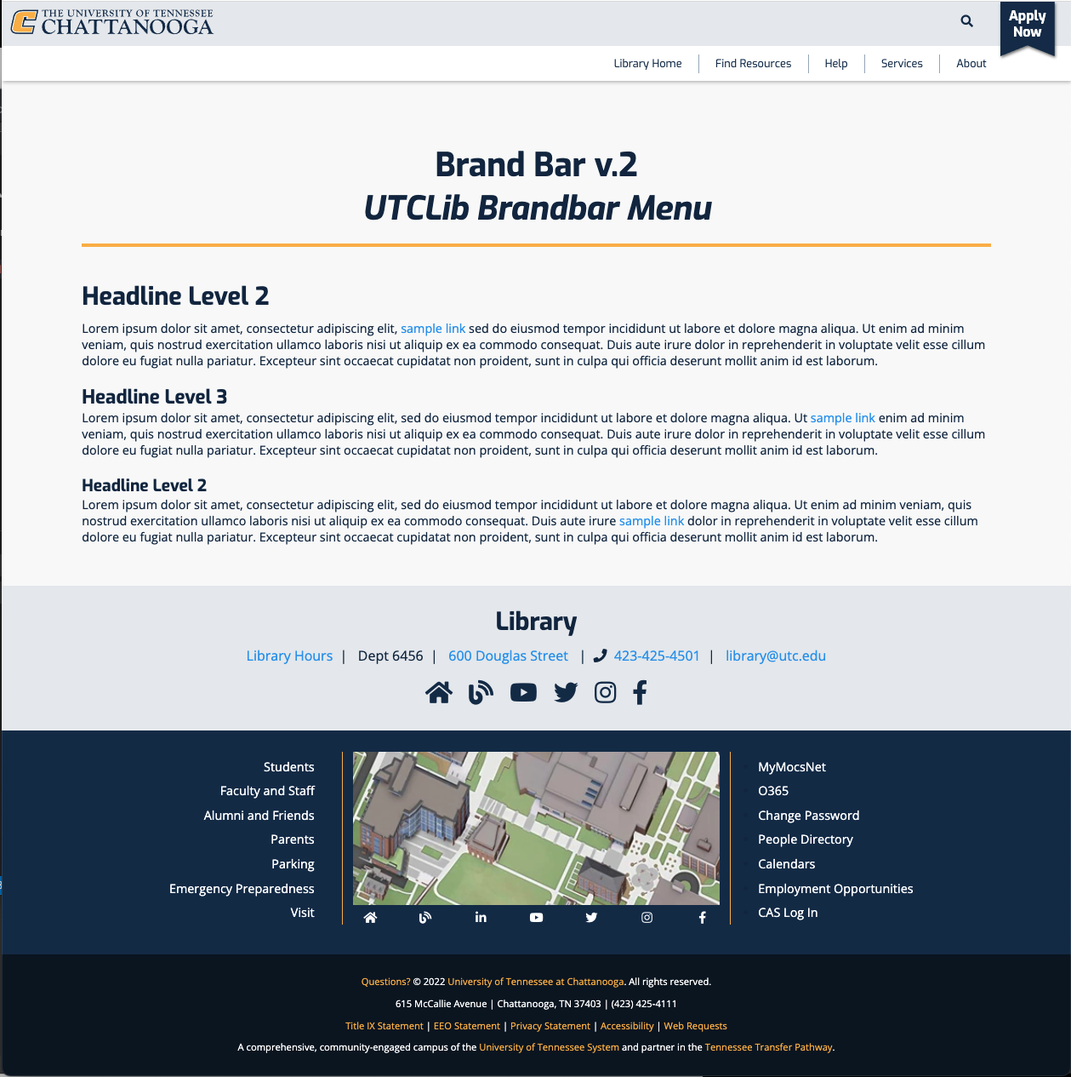
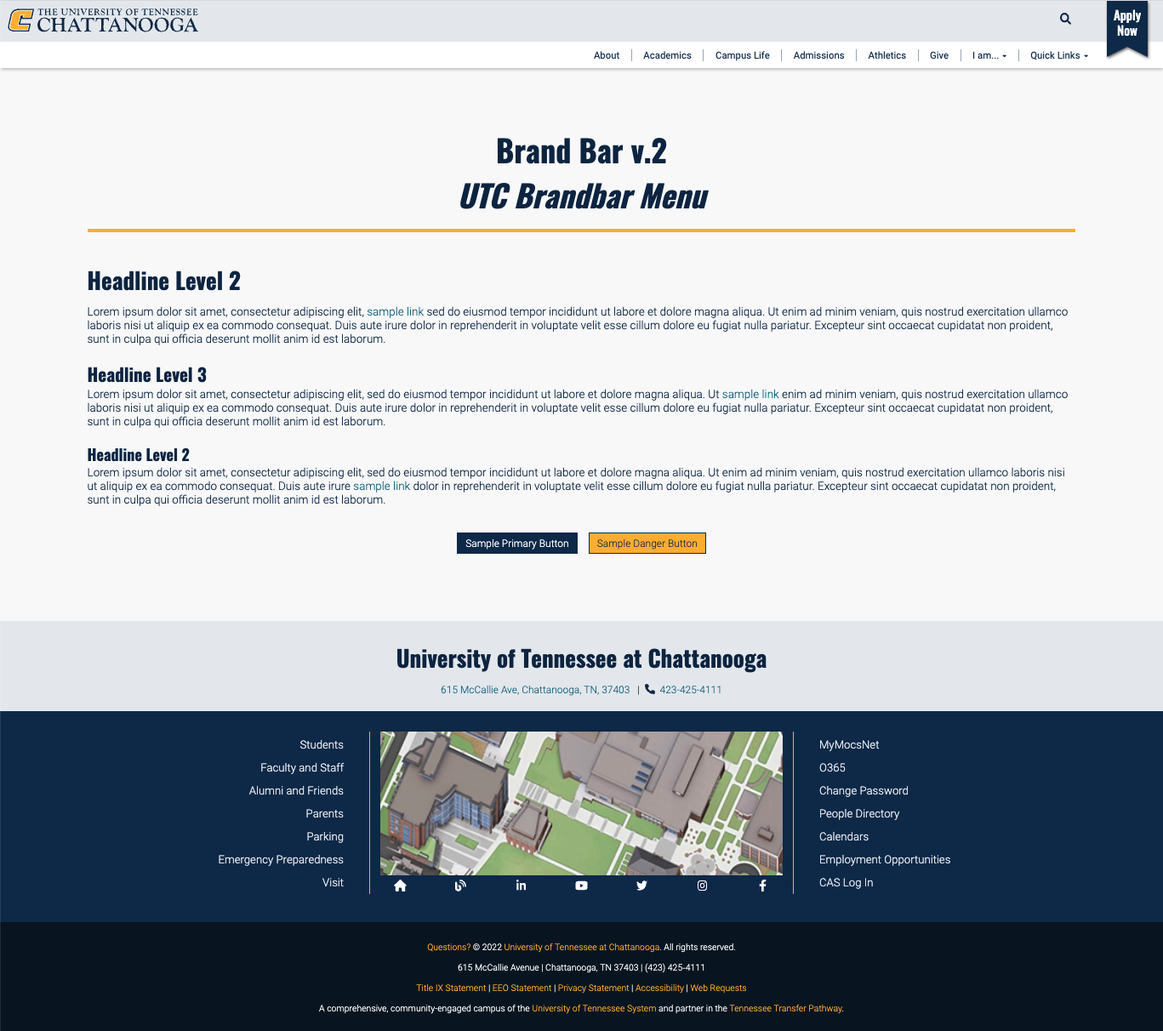
20220720-1423: Update fonts and responsiveness.

diff --git a/brandbar-v2.html b/brandbar-v2.html
@@ -13,9 +13,14 @@
 <title>Brand Bar v.2 | University of Tennessee at Chattanooga</title>
 <link rel="preconnect" href="https://fonts.googleapis.com">
 <link rel="preconnect" href="https://fonts.gstatic.com" crossorigin>
-<link href="https://fonts.googleapis.com/css2?family=Exo:ital,wght@0,400;0,700;1,400;1,500;1,700&family=Open+Sans:ital,wght@0,300;0,400;0,600;0,700;0,800;1,300;1,400;1,500;1,600;1,700;1,800&display=swap" rel="stylesheet">
+<link href="https://fonts.googleapis.com/css2?family=Oswald:wght@200;300;400;500;600;700&family=Roboto:ital,wght@0,100;0,300;0,400;0,500;0,700;0,900;1,100;1,300;1,400;1,500;1,700;1,900&display=swap" rel="stylesheet">
+<!--Main css styles-->
 <style>
-	:root{--blue:#112e51;--ltblue:#e7eaee;--dkblue:#081524;--gold:#fdb736;--dkgold:#725218;--ltgray:#a0aec0;--links:#2196f3;--bodycopy:#0f2949;--pagebg:#f9f9f9}*{margin:0;padding:0;box-sizing:border-box}html{box-sizing:border-box}*,::before,::after{box-sizing:inherit}body{font-size:18px;font-family:'Open Sans',sans-serif;color:var(--bodycopy);background:var(--pagebg);margin:0;overflow-x:hidden;overflow-y:scroll}html,body{height:100%}#container{display:flex;flex-direction:column;height:100vh}main{flex:1 0 auto}header,footer{flex-shrink:0}.sr-only{position:absolute;width:1px;height:1px;padding:0;margin:-1px;overflow:hidden;clip:rect(0,0,0,0);white-space:nowrap;border-width:0}.visually-hidden{display:none}a,button,.button,.title>a,.title-area,.header,.header>.wrap>*{outline:0}a{color:var(--links);text-decoration:none}:focus{outline:unset}a:hover,a:focus{color:var(--gold);text-decoration:underline}p{margin-bottom:12px;color:var(--bodycopy)}hr{background:transparent;border-bottom:1px solid var(--ltgray)}b,strong{font-weight:700}em,i{font-style:italic}::selection{background:var(--ltblue)}h1,h2,h3,h4,h5,h6{font-weight:700;margin-top:24px;font-family:'Exo',sans-serif}h1{font-size:3rem;text-align:center;width:100%;padding-bottom:18px;border-bottom:6px solid var(--gold);margin-top:2rem;margin-left:auto;margin-right:auto}h2{font-size:2.25rem;text-align:left;margin:48px auto 12px}#department-footer h2{text-align:center}h3{font-size:1.75rem}h4{font-size:1.5rem}h5{font-size:1.25rem}h6{font-size:1rem;text-align:center;margin:36px auto}embed,iframe,object,video{max-width:none}img{height:auto}.title-area svg{max-width:300px;max-height:48px}figure{margin:0}figure a{border:0}hr{margin:60px 0}.button-wrapper{display:flex;justify-content:space-evenly;padding-top:36px;max-width:900px;margin:0 auto}.btn,.btn-primary,button,.button{background:var(--blue);color:#fff;cursor:pointer;text-align:center;font-size:1rem;padding:6px 12px;text-decoration:none;white-space:normal;width:auto;display:inline-block;margin-top:6px;margin-bottom:6px;transition:all 250ms ease-in-out}.btn-danger,.button.secondary{background:var(--gold);color:var(--blue)}.btn:focus,.btn:hover,button:focus,button:hover,.button:focus,.button:hover,.btn-danger,.button.secondary:focus,.button.secondary:hover{color:var(--gold)}.header{background:#fff;top:0;width:100%;z-index:9999;box-shadow:1px 3px 5px -1px #bbb}.header>.wrap{display:flex;flex-direction:column;margin-left:0;margin-right:0}.header-first-row{background:#e7eaee;display:flex;align-content:center;padding:0 12px}.title-area{float:left;background:transparent;max-width:30%;padding:6px 0;margin-right:auto}.header .custom-logo-link{border:0}.header .custom-logo-link svg.custom-logo{display:block;max-height:80px;width:auto}.nav-primary{padding-right:5.5rem}.nav-secondary{height:48px}.nav-secondary ul{display:flex;justify-content:space-between;min-width:150px;min-height:3.5rem}.nav-secondary li{list-style:none}.nav-secondary a{text-decoration:none}.search-icon-menu-item{display:flex;align-items:center}.search-icon-menu-item a{background:transparent;margin-top:0;margin-bottom:0;color:var(--blue);transform:scale(1);transition:all .5s ease-in-out}.search-icon-menu-item a:hover{color:var(--gold);transform:scale(2)}@keyframes dropIn{from{opacity:0;visibility:hidden;transform:translateY(-100px)}to{opacity:1;visibility:visible;transform:translateY(0)}}.menu-item.ribbon-container{z-index:1}.ribbon-wrapper{width:60px;position:relative;animation-delay:1s;animation:dropIn 1s linear forwards}.ribbon{position:absolute;right:12px;top:0;filter:drop-shadow(2px 3px 2px rgba(0,0,0,0.5))}.ribbon>.ribbon-content{text-align:center;background:var(--blue);width:5rem;height:5rem;transition:all .5s ease-in-out}.ribbon>.ribbon-content{clip-path:polygon(0 0,100% 0,100% 100%,50% 100%,0 100%);transition:all .5s ease-in-out}.ribbon.down>.ribbon-content{clip-path:polygon(0 0,100% 0,100% calc(100% - 16px),50% 100%,0 calc(100% - 16px))}.ribbon.up>.ribbon-content{clip-path:polygon(0 0,100% 0,100% 100%,50% calc(100% - 16px),0 100%)}li.ribbon-container{padding:0}.apply-now-ribbon{padding:0;font-size:1.25rem;color:#fff;font-family:"Exo",sans-serif;font-weight:600;position:relative;display:inline-block;margin:9px auto 36px;line-height:1.5rem;transition:all .5s ease-in-out}.menu-item.ribbon-container:hover .apply-now-ribbon{color:var(--gold)}.nav-primary .menu{display:flex;justify-content:flex-end;padding:12px}.nav-primary .menu-item{padding:0 24px;list-style:none;border-right:1px solid var(--ltgray);height:auto}.nav-primary .menu-item:last-child{border:0}.nav-primary .menu-item a{color:var(--blue);text-decoration:none;transition:all .4s ease-in-out;font-size:1rem;line-height:.5rem;font-weight:400;font-family:"Exo",sans-serif}.nav-primary .menu-item a:after{content:"";background:rgba(253,183,54,0.7);transform:scaleX(0);transition:transform 250ms ease-in-out;box-shadow:0 0 1px 1px rgb(253 183 54 / 70%);margin-top:.25rem;display:block;height:0}.nav-primary .menu-item:hover a:after{transform:scaleX(1)}.container{background:var(--pagebg);position:relative;z-index:99}.inner,.wrap{margin:0 auto}.inner{max-width:85%;margin:60px auto;clear:both;position:relative;z-index:100}#department-footer{background:var(--ltblue);text-align:center;padding-top:18px;padding-bottom:24px}#department-footer h2{margin-top:12px}address{display:inline-block;font-style:normal;font-size:1.25rem}#social-footer ul{display:flex;width:fit-content;margin:0 auto}#social-footer li{list-style:none;padding:12px;margin-top:12px}#social-footer a{color:var(--blue)}#social-footer a:hover{color:var(--gold)}.before-footer-menu-map{background:var(--blue);bottom:0;padding-bottom:44px;text-align:left;position:relative;height:fit-content;min-height:82px}.before-footer-menu-map .wrap{padding-top:32px}.before-footer-menu-map .wrap:before{display:none}.before-footer-menu-map .widget{padding:0 16px;margin-bottom:0}.before-footer-menu-map li.menu-item{padding:6px 0;cursor:pointer}.before-footer-menu-map a{color:#fff;font-size:1.125rem;cursor:pointer;transition:all .4s ease-in-out}.before-footer-menu-map li.menu-item:hover a{text-decoration:none;color:var(--gold)}.before-footer-menu-map p{font-size:1.125rem}.before-footer-menu-map .icon{font-size:1.5rem;position:relative}#custom_html-5 .textwidget,#custom_html-4 .textwidget{display:grid;grid-template-columns:1fr 37% 1fr}#custom_html-5 .widget-title,#custom_html-4 .widget-title{display:none}#left-footer-menu,#global-footer-map,#right-footer-menu{z-index:100000000}#left-footer-menu{float:left;border-right:1px solid var(--gold);padding-right:40px;padding-top:3px;text-align:right}#right-footer-menu{float:right;border-left:1px solid var(--gold);padding-left:40px;padding-top:3px}.footer-menu{width:100%}#custom_html-4{width:100%;position:absolute;top:32px}.inner-map-wrap{max-height:225px;padding:0 16px;overflow:hidden}#global-footer-map a{text-align:center;margin:0 auto}#global-footer-map a:hover{color:var(--gold)}#global-footer-map img{width:100%}.utc-footer-socials{display:grid;grid-template-columns:repeat(7,minmax(0,1fr));text-align:center;margin-top:6px}.footer-copyright{background-color:var(--dkblue);padding:24px;text-align:center;line-height:2rem;color:#fff;font-size:14px}.footer-copyright a{text-decoration:none;color:var(--gold)}.footer-copyright a:hover{color:var(--links)}.mobile-hide{display:inline}@media only screen and (max-width:900px){.logins{width:100%;min-width:250px}.button-wrapper{display:grid}}@media only screen and (max-width:600px){.inner{margin:24px auto 60px}.mobile-hide{display:none}.mobile-block{display:block}h1{font-size:2.25rem}h2{font-size:1.5rem}h3{font-size:1.25rem}h4,h5,h6{font-size:1rem}.title-area svg{max-width:250px;max-height:48px}#department-footer{padding-left:24px;padding-right:24px}.footer-copyright{text-align:center;padding:24px;line-height:2rem}}
+	*{padding:0;margin:0;box-sizing:border-box;}:root{--blue:#112e51;--ltblue:#e7eaee;--dkblue:#081524;--gold:#fdb736;--dkgold:#725218;--ltgray:#a0aec0;--links:#166484;--bodycopy:#0f2949;--pagebg:#f9f9f9}*{margin:0;padding:0;box-sizing:border-box}html{box-sizing:border-box}*,::before,::after{box-sizing:inherit}body{font-size:18px;font-family:'Roboto',sans-serif;font-weight:300;color:var(--bodycopy);background:var(--pagebg);margin:0;overflow-x:hidden;overflow-y:scroll}html,body{height:100%}#container{display:flex;flex-direction:column;height:100vh}main{flex:1 0 auto}header,footer{flex-shrink:0}.sr-only{position:absolute;width:1px;height:1px;padding:0;margin:-1px;overflow:hidden;clip:rect(0,0,0,0);white-space:nowrap;border-width:0}.visually-hidden{display:none}a,button,.button,.title>a,.title-area,.header,.header>.wrap>*{outline:0}a{color:var(--links);text-decoration:none;transition:all .4s ease-in-out}:focus{outline:unset}a:hover,a:focus{color:var(--blue);font-weight:bold;}p{margin-bottom:12px;color:var(--bodycopy)}hr{background:transparent;border-bottom:1px solid var(--ltgray)}b,strong{font-weight:700}em,i{font-style:italic}::selection{background:var(--ltblue)}h1,h2,h3,h4,h5,h6{font-weight:700;margin-top:24px;font-family:'Oswald',sans-serif}h1{font-size:3rem;text-align:center;width:100%;padding-bottom:18px;border-bottom:6px solid var(--gold);margin-top:2rem;margin-left:auto;margin-right:auto}h2{font-size:2.25rem;text-align:left;margin:48px auto 12px}#department-footer h2{text-align:center}h3{font-size:1.75rem}h4{font-size:1.5rem}h5{font-size:1.25rem}h6{font-size:1rem;text-align:center;margin:36px auto}embed,iframe,object,video{max-width:none}img{height:auto}.title-area svg{max-width:300px;max-height:48px}figure{margin:0}figure a{border:0}hr{margin:60px 0}.button-wrapper{display:flex;justify-content:space-evenly;padding-top:36px;max-width:900px;margin:0 auto}.btn,.btn-primary,button,.button{background:var(--blue);border:1px solid var(--blue);color:#fff;cursor:pointer;text-align:center;font-size:1rem;padding:6px 12px;text-decoration:none;white-space:normal;width:auto;display:inline-block;margin-top:6px;margin-bottom:6px;transition:all 250ms ease-in-out}.btn-danger,.button.secondary{background:var(--gold);color:var(--blue)}.btn:focus,.btn:hover,button:focus,button:hover,.button:focus,.button:hover,.btn-danger:hover,.button.secondary:focus,.button.secondary:hover{background:#fff;font-weight:300;}.header{background:#fff;top:0;width:100%;z-index:9999;box-shadow:1px 3px 5px -1px #bbb}.header>.wrap{display:flex;flex-direction:column;margin-left:0;margin-right:0}.header-first-row{background:#e7eaee;display:flex;align-content:center;padding:0 12px}.title-area{float:left;background:transparent;max-width:30%;padding:6px 0;margin-right:auto}.header .custom-logo-link{border:0}.header .custom-logo-link svg.custom-logo{display:block;max-height:80px;width:auto}.nav-primary{padding-right:5.5rem}.nav-secondary{height:48px}.nav-secondary ul{display:flex;justify-content:space-between;min-width:150px;min-height:3.5rem}.nav-secondary li{list-style:none}.nav-secondary a{text-decoration:none}.search-icon-menu-item{display:flex;align-items:center}.search-icon-menu-item a{background:transparent;margin-top:0;margin-bottom:0;color:var(--blue);transform:scale(1);transition:all .5s ease-in-out}.search-icon-menu-item a:hover{color:var(--gold);transform:scale(2)}@keyframes dropIn{from{opacity:0;visibility:hidden;transform:translateY(-100px)}to{opacity:1;visibility:visible;transform:translateY(0)}}.menu-item.ribbon-container{z-index:1}.ribbon-wrapper{width:60px;position:relative;animation-delay:1s;animation:dropIn 1s linear forwards}.ribbon{position:absolute;right:12px;top:0;filter:drop-shadow(2px 3px 2px rgba(0,0,0,0.5))}.ribbon>.ribbon-content{text-align:center;background:var(--blue);width:4rem;height:5.5rem;transition:all .5s ease-in-out}.ribbon>.ribbon-content{clip-path:polygon(0 0,100% 0,100% 100%,50% 100%,0 100%);transition:all .5s ease-in-out}.ribbon.down>.ribbon-content{clip-path:polygon(0 0,100% 0,100% calc(100% - 16px),50% 100%,0 calc(100% - 16px))}.ribbon.up>.ribbon-content{clip-path:polygon(0 0,100% 0,100% 100%,50% calc(100% - 16px),0 100%)}li.ribbon-container{padding:0}.apply-now-ribbon{padding:0;font-size:1.25rem;color:#fff;font-family:"Oswald",sans-serif;font-weight:500;position:relative;display:inline-block;margin:9px auto 36px;line-height:1.5rem;transition:all .5s ease-in-out}.menu-item.ribbon-container:hover .apply-now-ribbon{color:var(--gold)}.container{background:var(--pagebg);position:relative;z-index:99}.inner,.wrap{margin:0 auto}.inner{max-width:85%;margin:60px auto;clear:both;position:relative;z-index:100}#department-footer{background:var(--ltblue);text-align:center;padding-top:18px;padding-bottom:24px}#department-footer h2{margin-top:12px}address{display:inline-block;font-style:normal;font-size:1rem}address a:hover{font-weight: 300;}#social-footer ul{display:flex;width:fit-content;margin:0 auto}#social-footer li{list-style:none;padding:12px;margin-top:12px}#social-footer a{color:var(--blue)}#social-footer a:hover{color:var(--gold)}.before-footer-menu-map{background:var(--blue);bottom:0;padding-bottom:44px;text-align:left;position:relative;height:fit-content;min-height:82px}.before-footer-menu-map .wrap{padding-top:32px}.before-footer-menu-map .wrap:before{display:none}.before-footer-menu-map .widget{padding:0 16px;margin-bottom:0}.before-footer-menu-map li.menu-item{padding:6px 0;cursor:pointer}.before-footer-menu-map a{color:#fff;font-size:1.125rem;cursor:pointer;transition:all .4s ease-in-out}.before-footer-menu-map li.menu-item:hover a{text-decoration:none;color:var(--gold)}.before-footer-menu-map p{font-size:1.125rem}.before-footer-menu-map .icon{font-size:1.5rem;position:relative}#custom_html-5 .textwidget,#custom_html-4 .textwidget{display:grid;grid-template-columns:1fr 37% 1fr}#custom_html-5 .widget-title,#custom_html-4 .widget-title{display:none}#left-footer-menu,#global-footer-map,#right-footer-menu{z-index:100000000}#left-footer-menu{float:left;border-right:1px solid var(--gold);padding-right:40px;padding-top:3px;text-align:right}#right-footer-menu{float:right;border-left:1px solid var(--gold);padding-left:40px;padding-top:3px}.footer-menu{width:100%}#custom_html-4{width:100%;position:absolute;top:32px}.inner-map-wrap{max-height:225px;padding:0 16px;overflow:hidden}#global-footer-map a{text-align:center;margin:0 auto}#global-footer-map a:hover{color:var(--gold)}#global-footer-map img{width:100%}.utc-footer-socials{display:grid;grid-template-columns:repeat(7,minmax(0,1fr));text-align:center;margin-top:6px}.footer-copyright{background-color:var(--dkblue);padding:24px;text-align:center;line-height:2rem;color:#fff;font-size:14px}.footer-copyright a{text-decoration:none;color:var(--gold)}.footer-copyright a:hover{color:var(--links)}.mobile-hide{display:inline}@media only screen and (max-width:900px){.logins{width:100%;min-width:250px}.button-wrapper{display:grid}}@media only screen and (max-width:600px){.inner{margin:24px auto 60px}.mobile-hide{display:none}.mobile-block{display:block}h1{font-size:2.25rem}h2{font-size:1.5rem}h3{font-size:1.25rem}h4,h5,h6{font-size:1rem}.title-area svg{max-width:250px;max-height:48px}#department-footer{padding-left:24px;padding-right:24px}.footer-copyright{text-align:center;padding:24px;line-height:2rem}}
+</style>
+<!--Responsive menu(s) css styles-->
+<style>
+	.nav-primary .menu{display:flex;justify-content:flex-end;padding:0 12px}ul.menu{margin:0;padding:0;clear:both;width:100%;line-height:1}ul.menu li{float:none;list-style-type:none;position:relative;text-align:left;padding:0;padding-top:12px;padding-bottom:6px}.fa-caret-down{height:.6rem;padding-left:6px;vertical-align:0}ul.menu > li a{display:block;color:var(--blue);text-decoration:none;transition:all .4s ease-in-out;font-size:.95rem;font-weight:400;font-family:"Roboto",sans-serif;border-right:1px solid var(--ltgray);cursor:pointer;line-height:1.2rem;padding-left:18px;padding-right:18px}ul.menu > li:last-child a{border:none}ul.menu > li > a:after{content:"";background:rgba(253,183,54,0.7);transform:scaleX(0);transition:transform 250ms ease-in-out;box-shadow: 0 0 1px 1px rgb(253 183 54 / 70%);margin-top:.25rem;display:block;height:0}ul.menu > li:hover > a:after{transform:scaleX(1)}ul.menu .sub-menu{position:absolute;z-index:999;margin-left:-1px;display:none;height:0;border-width:0;padding-left:0;opacity:0;left:-9999px;box-shadow: 3px 3px 5px 1px rgb(0 0 0 / 15%), -3px 3px 5px 1px rgb(0 0 0 / 15%);animation:growDown 300ms ease-in-out forwards;transform-origin:top center;margin-top:6px}ul.menu .menu-item:hover > .sub-menu{right:0;left:auto;display:block;height:auto;width:10rem;opacity:1;border-top:1px solid var(--ltblue)}@keyframes growDown{0%{transform:scaleY(0)}80%{transform:scaleY(1.1)}100%{transform:scaleY(1)}}ul.menu .sub-menu .menu-item{display:block;border-bottom:1px solid var(--ltblue);border-right:none;padding-top:0;padding-bottom:0;transition:all .5s ease-in-out;background:#fff;position:relative;text-align:left}ul.menu .sub-menu a{position:relative;padding:.75rem;font-size:.875rem;line-height:1.25rem;margin:0;border:0}ul.menu .sub-menu a:hover{background-color:var(--ltblue)}.sf-with-ul{padding:0 1rem;margin-top:1rem;margin-bottom:1rem;display:block;color:var(--blue);text-decoration:none;transition:all .4s ease-in-out;font-size:.95rem;font-weight:300;font-family:"Roboto",sans-serif;cursor:pointer;line-height:1.2rem}.sub-menu-toggle{display:none}#left-footer-menu ul.menu > li,#right-footer-menu ul.menu > li{margin:0;border:0}#left-footer-menu ul.menu > li a,#right-footer-menu ul.menu > li a{font-weight:300;font-size:1.1rem;line-height:1.5rem;color:var(--ltblue);text-decoration:none;margin:0;padding:0;border:0;transition:all .4s ease-in-out;text-align:left}#left-footer-menu ul.menu > li a{text-align:right}#left-footer-menu ul.menu > li a:hover,#right-footer-menu ul.menu > li a:hover{color:var(--gold)}#left-footer-menu ul.menu > li a:after,#right-footer-menu ul.menu > li a:after{display:none}.hamburger{display:none;cursor:pointer}@media(max-width:991px){#container{overflow-x:hidden}.header-first-row{z-index:10}.hamburger{display:inline-block;height:72px;padding-top:18px}.hamburger .svg-inline--fa{height:1.8rem;transition:all .4s ease-in-out}.hamburger.active .svg-inline--fa{transform:scale(1.5)}.nav-primary .menu{padding:0}.nav-primary ul.menu{display:flex;position:absolute;right:-100%;top:66px;gap:0;flex-direction:column;width:50%;transition:.3s;z-index:1;box-shadow:3px 3px 3px 3px rgba(0,0,0,.2)}ul.level-1 li{width:100%}ul.menu li{float:none;list-style-type:none;position:relative;text-align:left;padding:0}ul.menu li.menu-item-has-children{padding-top:0;padding-left:18px}ul.menu li.menu-item-has-children.active{padding-bottom:12px}ul.menu > li.menu-item-has-children > a{padding-top:18px;padding-left:0px;height:52px}.nav-secondary li.menu-item:not(.menu-item.ribbon-container){margin:16px 0}.nav-secondary li{width:60px;display:inline-block}.ribbon{right:0}ul.menu.active{right:0}ul.level-1 li{background:#fff;border:0;transition:all .4s ease-in-out;border-bottom:1px solid var(--ltblue)}ul.level-1 li:hover{background:var(--ltblue)}ul.level-1 li a{border:0;-webkit-tap-highlight-color:transparent;height:52px;padding-top:18px}ul.menu > li > a:after{display:none}ul.menu .sub-menu{position:relative;margin:0}#custom_html-4 .svg-inline--fa{height:1rem}ul.menu .menu-item:hover > .sub-menu{display:block;width:99%}ul.level-1 li > .sub-menu.hide{display:none!important}ul.level-1 li > .sub-menu.show{display:block!important}.fa-caret-down{transform:rotate(-90deg);transition:all .4s ease-in-out;position:absolute;right:12px;top:24px;height:.75rem}.has-submenu[aria-expanded="true"] .fa-caret-down{transform:rotate(0deg);right:15px;top:21px}}@media(max-width:640px){#custom_html-5 .textwidget{grid-template-columns:1fr 0 1fr}.footer-menu{width:100%}#custom_html-4{width:100%;position:relative;padding-bottom:36px}#custom_html-4 .textwidget{grid-template-columns:0 1fr 0;padding-left:60px;padding-right:60px}ul.menu .menu-item.open > .sub-menu{width:100%}}@media(max-width:460px){.title-area{max-width:48px;overflow:hidden}.title-area svg{max-width:320px}ul.menu{width:100%}}
 </style>
 <script src="https://kit.fontawesome.com/6cef20ef42.js" crossorigin="anonymous"></script>
 </head>
@@ -298,11 +303,12 @@
         </div>
         <nav class="nav-secondary" aria-label="Secondary" itemscope="" itemtype="https://schema.org/SiteNavigationElement">
           <div class="wrap">
-            <ul id="menu" class="">
-              <li class="menu-item search-icon-menu-item"><a href="https://www.utc.edu/search" aria-controls="header-search-wrap" aria-expanded="false" role="button" class=""><span class="sr-only">Show Search</span> <i class="fa fa-search"></i></a></li>
+            <ul>
+			  <li class="hamburger"><i class="fas fa-bars"></i></li>
+              <li class="menu-item search-icon-menu-item"><a href="https://www.utc.edu/search" aria-controls="header-search-wrap" aria-expanded="false" role="button" ><span class="sr-only">Show Search</span> <i class="fa fa-search"></i></a></li>
               <li class="menu-item ribbon-container">
                 <div class="ribbon-wrapper"> <a href="https://webapp.utc.edu/apply/" title="Apply Now">
-                  <div id="menuribbon" class="ribbon up" style="">
+                  <div id="menuribbon" class="ribbon up" >
                     <div class="ribbon-content">
                       <p id="apply-now-ribbon" class="apply-now-ribbon">Apply<br>
                         Now</p>
@@ -314,24 +320,51 @@
           </div>
         </nav>
       </div>
-      <div class="">
+	  <style>
+		  
+	  </style>
+      <div >
         <nav class="nav-primary" role="navigation" aria-labelledby="utc-brandbarmenu" id="utc-brandbarmenu">
-          <h2 class="menu-title sr-only">UTCLib Brandbar Menu</h2>
-          <ul class="menu">
-            <li class="menu-item"><a href="/library" title="UTC Library home page" class=""><span>Library Home</span></a></li>
-            <li class="menu-item"><a href="/library/find-resources" title="Find resources at the UTC Library" class=""><span>Find Resources</span></a></li>
-            <li class="menu-item"><a href="/library/help" title="Get help from the UTC Library" class="" ><span>Help</span></a></li>
-            <li class="menu-item"><a href="/library/services" title="Services available at the UTC Library" class=""><span>Services</span></a></li>
-            <li class="menu-item"><a href="/library/about" title="Get help from the UTC Library" class="" ><span>About</span></a></li>
+          <h2 class="menu-title sr-only">UTC Brandbar Menu</h2>
+          <ul class="menu level-1">
+            <li class="menu-item"><a href="https://www.utc.edu/about" title="About UTC" ><span>About</span></a></li>
+            <li class="menu-item"><a href="https://www.utc.edu/about/academics-and-majors" title="Academics" ><span>Academics</span></a></li>
+            <li class="menu-item"><a href="https://www.utc.edu/about/campus-life" title="Campus Life"  ><span>Campus Life</span></a></li>
+            <li class="menu-item"><a href="https://www.utc.edu/about/admissions" title="Admissions" ><span>Admissions</span></a></li>
+            <li class="menu-item"><a href="https://gomocs.com/" title="Athletics"  ><span>Athletics</span></a></li>
+			<li class="menu-item"><a href="https://securelb.imodules.com/s/1341/utc/form/19/form.aspx?sid=1341&gid=3&pgid=4310&cid=6419" title="Give"  ><span>Give</span></a></li>
+			<li class="menu-item menu-item-has-children"><a href="#" class='has-submenu iam-btn' aria-expanded="false" title="I am...">I am...<i class="fa-solid fa-caret-down"></i></a>
+				<ul class="sub-menu level-2 iam-menu hide" >
+					<li class="menu-item menu-item-level-2"><a href="https://www.utc.edu/about/student-resources" itemprop="url"><span itemprop="name">…a student.</span></a></li>
+					<li class="menu-item menu-item-level-2"><a href="https://www.utc.edu/about/faculty-and-staff-resources" itemprop="url"><span itemprop="name">…faculty or staff.</span></a></li>
+					<li class="menu-item menu-item-level-2"><a href="https://www.utc.edu/about/alumni-and-friends" itemprop="url"><span itemprop="name">…alumni.</span></a></li>
+					<li class="menu-item menu-item-level-2"><a href="https://www.utc.edu/admissions/parents" itemprop="url"><span itemprop="name">…a parent.</span></a></li>
+					<li class="menu-item menu-item-level-2"><a href="https://www.utc.edu/veterans/" itemprop="url"><span itemprop="name">…a veteran.</span></a></li>
+				</ul>
+			</li>
+			<li class="menu-item menu-item-has-children"><a href="#" class='has-submenu ql-btn' aria-expanded="false" title="Quick Links" >Quick Links<i class="fa-solid fa-caret-down"></i></a>
+				<ul class="sub-menu level-2 ql-menu hide" >
+					<li class="menu-item menu-item-level-2"><a href="https://webauth.utc.edu/cas/login?service=https%3A%2F%2Futchattanooga.instructure.com%2Flogin%2Fcas" itemprop="url"><span itemprop="name">UTC Learn (Canvas)</span></a></li>
+					<li class="menu-item menu-item-level-2"><a href="https://mail.google.com/a/mocs.utc.edu" itemprop="url"><span itemprop="name">Mocs Mail+</span></a></li>
+					<li class="menu-item menu-item-level-2"><a href="https://mocsyncorgs.utc.edu/" itemprop="url"><span itemprop="name">MocsSync</span></a></li>
+					<li class="menu-item menu-item-level-2"><a href="https://portal.microsoftonline.com/" itemprop="url"><span itemprop="name">O365</span></a></li>
+					<li class="menu-item menu-item-level-2"><a href="https://sis-reg.utc.edu/StudentRegistrationSsb/ssb/term/termSelection?mode=search" itemprop="url"><span itemprop="name">Class Schedule</span></a></li>
+					<li class="menu-item menu-item-level-2"><a href="https://events.utc.edu/MasterCalendar/MasterCalendar.aspx" itemprop="url"><span itemprop="name">Calendar</span></a></li>
+					<li class="menu-item menu-item-level-2"><a href="https://people.utc.edu/" itemprop="url"><span itemprop="name">People Finder</span></a></li>
+					<li class="menu-item menu-item-level-2"><a href="https://www.utc.edu/auxiliary-services/parking/utcmap-large.php" itemprop="url"><span itemprop="name">Campus Map</span></a></li>
+					<li class="menu-item menu-item-level-2"><a href="https://ds.tennessee.edu/passwords/login.asp?redirect=%2Fpasswords%2Fpassword%2Easp" itemprop="url"><span itemprop="name">Change Password</span></a></li>
+				</ul>
+			</li>
           </ul>
         </nav>
       </div>
     </div>
+	
   </header>
   <main class="main-content inner">
     <div class="wrap">
       <h1 itemprop="headline">Brand Bar v.2<br />
-        <em>UTCLib Brandbar Menu</em></h1>
+        <em>UTC Brandbar Menu</em></h1>
       <div class="content-sidebar-wrap">
         <div class="content" >
           <article aria-label="Sample Brand Bar" itemscope="" itemtype="https://schema.org/CreativeWork">
@@ -341,7 +374,8 @@
             <div> Lorem ipsum dolor sit amet, consectetur adipiscing elit, sed do eiusmod tempor incididunt ut labore et dolore magna aliqua. Ut <a href="#" title="sample link">sample link</a> enim ad minim veniam, quis nostrud exercitation ullamco laboris nisi ut aliquip ex ea commodo consequat. Duis aute irure dolor in reprehenderit in voluptate velit esse cillum dolore eu fugiat nulla pariatur. Excepteur sint occaecat cupidatat non proident, sunt in culpa qui officia deserunt mollit anim id est laborum. </div>
             <h4>Headline Level 2</h4>
             <div> Lorem ipsum dolor sit amet, consectetur adipiscing elit, sed do eiusmod tempor incididunt ut labore et dolore magna aliqua. Ut enim ad minim veniam, quis nostrud exercitation ullamco laboris nisi ut aliquip ex ea commodo consequat. Duis aute irure <a href="#" title="sample link">sample link</a> dolor in reprehenderit in voluptate velit esse cillum dolore eu fugiat nulla pariatur. Excepteur sint occaecat cupidatat non proident, sunt in culpa qui officia deserunt mollit anim id est laborum. </div>
-          </article>
+            <div style="margin:36px;text-align:center"><a class="btn btn-primary">Sample Primary Button</a>&nbsp;&nbsp;&nbsp;&nbsp;<a class="btn btn-danger">Sample Danger Button</a></div>
+		  </article>
         </div>
       </div>
     </div>
@@ -349,12 +383,13 @@
   <footer class="footer" itemscope="" itemtype="https://schema.org/WPFooter">
     <div class="wrap">
       <div id="department-footer">
-        <h2 style="margin-bottom:12px;">Library</h2>
+        <h2 style="margin-bottom:12px;">University of Tennessee at Chattanooga</h2>
         <div>
           <address>
-          <span class="mobile-block"> <a href="/library/about/hours">Library Hours</a> <span class="mobile-hide">&nbsp;&nbsp;|&nbsp;&nbsp;</span> Dept.&nbsp;6456 <span class="mobile-hide">&nbsp;&nbsp;|&nbsp;&nbsp;</span> <a href="https://www.google.com/maps/place/UTC+Library/@35.0474378,-85.300106,15z/data=!4m5!3m4!1s0x0:0xa893b362b58555b9!8m2!3d35.0474378!4d-85.300106">600 Douglas Street</a> <span class="mobile-hide">&nbsp;&nbsp;|&nbsp;&nbsp;</span> </span> <span class="mobile-block"><i class="fas fa-phone"></i>&nbsp;&nbsp;<a href="tel:423-425-4501">423-425-4501</a> <span class="mobile-hide">&nbsp;&nbsp;|&nbsp;&nbsp;</span> <a href="mailto:library@utc.edu">library@utc.edu</a> </span>
+          <span class="mobile-block"> <a href="https://explore.utc.edu/">615 McCallie Ave, Chattanooga, TN, 37403</a> <span class="mobile-hide">&nbsp;&nbsp;|&nbsp;&nbsp;</span><i class="fas fa-phone"></i>&nbsp;&nbsp;<a href="tel:423-425-4111">423-425-4111</a>
           </address>
-          <div id="social-footer">
+          <!--APPLY THIS FOR YOUR DEPARTMENT
+		  <div id="social-footer">
             <ul>
               <li> <a href="https://www.utc.edu/library" target="_self" aria-label="departmental homepage" title="departmental homepage"> <span class="fa fa-home fa-2x"></span> </a> </li>
               <li> <a href="https://blog.utc.edu/library/" target="_self" aria-label="Read our news blog" title="Read our news blog"> <span class="fa fa-blog fa-2x"></span> </a> </li>
@@ -363,7 +398,7 @@
               <li> <a href="https://www.instagram.com/utclibrary" target="_self" aria-label="Find us on Instagram" title="Find us on Instagram"> <span class="fa fa-instagram fa-2x"></span> </a> </li>
               <li> <a href="https://www.facebook.com/UTCLibrary" target="_self" aria-label="Find us on Facebook" title="Find us on Facebook"> <span class="fa fa-facebook fa-2x"></span> </a> </li>
             </ul>
-          </div>
+          </div>-->
         </div>
       </div>
       <div class="before-footer-menu-map">
@@ -372,7 +407,7 @@
           <section id="custom_html-5" class="widget_text widget widget_custom_html">
             <div class="widget_text widget-wrap">
               <h3 class="widgettitle widget-title">Footer Menus</h3>
-              <div class="textwidget custom-html-widget">
+              <div id="footer-menus" class="textwidget custom-html-widget ">
                 <div id="left-footer-menu" class="footer-menu">
                   <nav role="navigation" aria-labelledby="" class="left-footer-menu">
                     <ul class="menu">
@@ -432,6 +467,7 @@
     </div>
   </footer>
 </div>
+<script src="https://ajax.googleapis.com/ajax/libs/jquery/3.4.0/jquery.min.js"></script> 
 <script>
 	//Apply now ribbon
   const ribbon = document.getElementById("menuribbon");
@@ -445,6 +481,43 @@
       this.classList.remove("down");
       this.classList.add("up");
   };
-	</script>
+</script>
+<script>
+	//Mobile menu conversion
+	const hamburger = document.querySelector(".hamburger");
+	const navMenu = document.querySelector("ul.menu");
+
+	hamburger.addEventListener("click", () => {
+		hamburger.classList.toggle("active");
+		navMenu.classList.toggle("active");
+	});
+	document.querySelectorAll("li.menu-item a:not(.has-submenu)").forEach(n => n.addEventListener("click", () => {
+		hamburger.classList.remove("active");
+		navMenu.classList.remove("active");
+	}));
+</script>
+<script>
+	//Apply functionality to mobile submenus
+      $('.iam-btn').click(function(){
+		if ($(".ql-menu").hasClass("show")) {
+			$(".ql-menu").removeClass("show").addClass("hide");
+			$(".ql-btn").parent().removeClass("active");
+			$(".ql-btn").removeClass("active").attr('aria-expanded','false');
+		}
+        $('.iam-menu').toggleClass("show hide");
+		$(this).parent().toggleClass("active");
+		$(this).attr('aria-expanded', function(_, attr) { return !(attr == 'true') })
+      });
+      $('.ql-btn').click(function(){
+        $('.ql-menu').toggleClass("show hide");
+		$(this).parent().toggleClass("active");
+		$(this).attr('aria-expanded', function(_, attr) { return !(attr == 'true') });
+		if ($(".iam-menu").hasClass("show")) {
+			$(".iam-menu").removeClass("show").addClass("hide");
+			$(".iam-btn").parent().removeClass("active");
+			$(".iam-btn").removeClass("active").attr('aria-expanded','false');
+		}
+      });
+</script>
 </body>
 </html>

diff --git a/brandbar-v1.html b/brandbar-v1.html
@@ -13,9 +13,9 @@
 <title>Brand Bar v.1 | University of Tennessee at Chattanooga</title>
 <link rel="preconnect" href="https://fonts.googleapis.com">
 <link rel="preconnect" href="https://fonts.gstatic.com" crossorigin>
-<link href="https://fonts.googleapis.com/css2?family=Exo:ital,wght@0,400;0,700;1,400;1,500;1,700&family=Open+Sans:ital,wght@0,300;0,400;0,600;0,700;0,800;1,300;1,400;1,500;1,600;1,700;1,800&display=swap" rel="stylesheet">
+<link href="https://fonts.googleapis.com/css2?family=Oswald:wght@200;300;400;500;600;700&family=Roboto:ital,wght@0,100;0,300;0,400;0,500;0,700;0,900;1,100;1,300;1,400;1,500;1,700;1,900&display=swap" rel="stylesheet">
 <style>
-:root{--dkblue:#112e51;--ltblue:#e7eaee;--gold:#fdb736;--dkgold:#725218;--ltgray:#a0aec0;--links:#2196f3;--bodycopy:#0f2949;--pagebg:#f9f9f9;}*{margin:0;padding:0;box-sizing:border-box}html{box-sizing:border-box}*,::before,::after{box-sizing:inherit}body{font-size:18px;font-family:'Open Sans',sans-serif;color:var(--bodycopy);background:var(--pagebg);margin:0;overflow-x:hidden;overflow-y:scroll}html,body{height:100%}#container{display:flex;flex-direction:column;height:100vh}main{flex:1 0 auto}header,footer{flex-shrink:0}.sr-only{position:absolute;width:1px;height:1px;padding:0;margin:-1px;overflow:hidden;clip:rect(0,0,0,0);white-space:nowrap;border-width:0}a,button,.button,.title > a,.title-area,.header,.header > .wrap > *{outline:none}a{color:var(--links);text-decoration:none;}:focus{outline:unset}a:hover,a:focus{color:var(--gold);text-decoration:underline;}p{margin-bottom:12px;color:var(--bodycopy)}hr{background:transparent;border-bottom:1px solid var(--ltgray);}b,strong{font-weight:700}em,i{font-style:italic}::selection{background:var(--ltblue);}h1,h2,h3,h4,h5,h6{font-weight:700;margin-top:24px;font-family:'Exo',sans-serif}h1{font-size:3rem;text-align:center;width:100%;padding-bottom:18px;border-bottom:6px solid var(--gold);margin-top:2rem;margin-left:auto;margin-right:auto}h2{font-size:2.25rem;text-align:left;margin:48px auto 12px}#department-footer h2{text-align:center;}h3{font-size:1.75rem}h4{font-size:1.5rem}h5{font-size:1.25rem}h6{font-size:1rem;text-align:center;margin:36px auto}embed,iframe,object,video{max-width:none}img{height:auto}.title-area svg{max-width:300px;max-height:48px}figure{margin:0}figure a{border:none}hr{margin:60px 0}.button-wrapper{display:flex;justify-content:space-evenly;padding-top:36px;max-width:900px;margin:0 auto}.btn,.btn-primary,button,.button{background:var(--dkblue);color:#fff;cursor:pointer;text-align:center;font-size:1rem;padding:6px 12px;text-decoration:none;white-space:normal;width:auto;display:inline-block;margin-top:6px;margin-bottom:6px;transition:all 250ms ease-in-out}.btn-danger,.button.secondary{background:var(--gold);color:var(--dkblue)}.btn:focus,.btn:hover,button:focus,button:hover,.button:focus,.button:hover,.btn-danger,.button.secondary:focus,.button.secondary:hover{color:var(--gold)}.logins{width:175px}.container{background:var(--pagebg);position:relative;z-index:99}.inner,.wrap{margin:0 auto}.inner{max-width:85%;margin:100px auto;clear:both;position:relative;z-index:100}.header{background:#fff;top:0;width:100%;z-index:9999;box-shadow:1px 3px 5px -1px #000}.header > .wrap{display:flex;flex-direction:column;margin-left:0;margin-right:0}.header-first-row{background:#e7eaee;display:flex;align-content:center;padding:6px 12px}.header-right{margin-left:auto}.title-area{float:left;background:transparent;max-width:30%;padding:0;margin-right:auto}.title{font-family:'Exo;',sans-serif;font-weight:700;margin-bottom:0}.title a,.title a:focus,.title a:hover{background:#e7eaee;color:#fff;border:none;min-height:15px;opacity:1;padding:21px;text-decoration:none}.title a:focus,.title a:hover{box-shadow:inset 1px 3px 5px -1px #000}.title > a{float:left;width:100%}.header .custom-logo-link{border:none}.header .custom-logo-link svg.custom-logo{display:block;max-height:80px;width:auto;max-width:auto}#department-footer{background:var(--ltblue);text-align:center;padding-top:18px;padding-bottom:60px}address{display:inline-block;font-style:normal;font-size:1.25rem}.footer-copyright-container{background-color:var(--dkblue);padding-bottom:12px}.footer-copyright-container ul{padding:60px;width:fit-content;margin:0 auto}.footer-copyright-container li{display:inline;padding:24px}.footer-copyright-container p{color:#fff;text-align:center;max-width:90%;margin:0 auto 60px}.footer-copyright-container li a{text-decoration:none;color:#fff}.footer-copyright-container li a:hover{color:var(--gold)}.mobile-hide{display:inline}@media only screen and (max-width: 900px){.logins{width:100%;min-width:250px}.button-wrapper{display:grid}}@media only screen and (max-width: 600px){.inner{margin:24px auto 60px}.mobile-hide{display:none}.mobile-block{display:block}h1{font-size:2.25rem}h2{font-size:1.5rem}h3{font-size:1.25rem}h4,h5,h6{font-size:1rem}.title-area svg{max-width:250px;max-height:48px}#department-footer{padding-left:24px;padding-right:24px}.footer-copyright-container ul{padding:24px;width:fit-content;margin:0 auto;padding-top:60px}.footer-copyright-container li{padding:12px;font-size:16px;padding:9px}}@media only screen and (max-width: 300px){.footer-copyright-container li{font-size:14px;padding:6px}}
+:root{--dkblue:#112e51;--ltblue:#e7eaee;--gold:#fdb736;--dkgold:#725218;--ltgray:#a0aec0;--links:#166484;--bodycopy:#0f2949;--pagebg:#f9f9f9;}*{margin:0;padding:0;box-sizing:border-box}html{box-sizing:border-box}*,::before,::after{box-sizing:inherit}body{font-size:18px;font-weight:300;font-family:'Roboto',sans-serif;color:var(--bodycopy);background:var(--pagebg);margin:0;overflow-x:hidden;overflow-y:scroll}html,body{height:100%}#container{display:flex;flex-direction:column;height:100vh}main{flex:1 0 auto}header,footer{flex-shrink:0}.sr-only{position:absolute;width:1px;height:1px;padding:0;margin:-1px;overflow:hidden;clip:rect(0,0,0,0);white-space:nowrap;border-width:0}a,button,.button,.title > a,.title-area,.header,.header > .wrap > *{outline:none}a{color:var(--links);text-decoration:none;transition:all .4s ease-in-out}:focus{outline:unset}a:hover,a:focus{color:var(--blue);font-weight:500;}p{margin-bottom:12px;color:var(--bodycopy)}hr{background:transparent;border-bottom:1px solid var(--ltgray);}b,strong{font-weight:700}em,i{font-style:italic}::selection{background:var(--ltblue);}h1,h2,h3,h4,h5,h6{font-weight:700;margin-top:24px;font-family:'Oswald',sans-serif}h1{font-size:3rem;text-align:center;width:100%;padding-bottom:18px;border-bottom:6px solid var(--gold);margin-top:2rem;margin-left:auto;margin-right:auto}h2{font-size:2.25rem;text-align:left;margin:48px auto 12px}#department-footer h2{text-align:center;}h3{font-size:1.75rem}h4{font-size:1.5rem}h5{font-size:1.25rem}h6{font-size:1rem;text-align:center;margin:36px auto}embed,iframe,object,video{max-width:none}img{height:auto}.title-area svg{max-width:300px;max-height:48px}figure{margin:0}figure a{border:none}hr{margin:60px 0}.button-wrapper{display:flex;justify-content:space-evenly;padding-top:36px;max-width:900px;margin:0 auto}.btn,.btn-primary,button,.button{background:var(--dkblue);color:#fff;cursor:pointer;text-align:center;font-size:1rem;padding:6px 12px;text-decoration:none;white-space:normal;width:auto;display:inline-block;margin-top:6px;margin-bottom:6px;transition:all 250ms ease-in-out}.btn-danger,.button.secondary{background:var(--gold);color:var(--dkblue)}.btn:focus,.btn:hover,button:focus,button:hover,.button:focus,.button:hover,.btn-danger,.button.secondary:focus,.button.secondary:hover{color:var(--gold)}.logins{width:175px}.container{background:var(--pagebg);position:relative;z-index:99}.inner,.wrap{margin:0 auto}.inner{max-width:85%;margin:100px auto;clear:both;position:relative;z-index:100}.header{background:#fff;top:0;width:100%;z-index:9999;box-shadow:1px 3px 5px -1px #000}.header > .wrap{display:flex;flex-direction:column;margin-left:0;margin-right:0}.header-first-row{background:#e7eaee;display:flex;align-content:center;padding:6px 12px}.header-right{margin-left:auto}.title-area{float:left;background:transparent;max-width:30%;padding:0;margin-right:auto}.title{font-family:'Oswald;',sans-serif;font-weight:700;margin-bottom:0}.title a,.title a:focus,.title a:hover{background:#e7eaee;color:#fff;border:none;min-height:15px;opacity:1;padding:21px;text-decoration:none}.title a:focus,.title a:hover{box-shadow:inset 1px 3px 5px -1px #000}.title > a{float:left;width:100%}.header .custom-logo-link{border:none}.header .custom-logo-link svg.custom-logo{display:block;max-height:80px;width:auto;max-width:auto}#department-footer{background:var(--ltblue);text-align:center;padding-top:18px;padding-bottom:60px}address{display:inline-block;font-style:normal;font-size:1.1rem}address a:hover{font-weight:300;}.footer-copyright-container{background-color:var(--dkblue);padding-bottom:12px}.footer-copyright-container ul{padding:60px;width:fit-content;margin:0 auto}.footer-copyright-container li{display:inline;padding:24px}.footer-copyright-container p{color:#fff;text-align:center;max-width:90%;margin:0 auto 60px}.footer-copyright-container li a{text-decoration:none;color:#fff}.footer-copyright-container li a:hover{color:var(--gold)}.mobile-hide{display:inline}@media only screen and (max-width: 900px){.logins{width:100%;min-width:250px}.button-wrapper{display:grid}}@media only screen and (max-width: 600px){.inner{margin:24px auto 60px}.mobile-hide{display:none}.mobile-block{display:block}h1{font-size:2.25rem}h2{font-size:1.5rem}h3{font-size:1.25rem}h4,h5,h6{font-size:1rem}.title-area svg{max-width:250px;max-height:48px}#department-footer{padding-left:24px;padding-right:24px}.footer-copyright-container ul{padding:24px;width:fit-content;margin:0 auto;padding-top:60px}.footer-copyright-container li{padding:12px;font-size:16px;padding:9px}}@media only screen and (max-width: 300px){.footer-copyright-container li{font-size:14px;padding:6px}}
 </style>
 <script src="https://kit.fontawesome.com/6cef20ef42.js" crossorigin="anonymous"></script>
 </head>
@@ -328,7 +328,7 @@
         <h2 style="margin-bottom:12px;">The University of Tennessee at Chattanooga</h2>
         <div>
           <address>
-          <span class="mobile-block">615&nbsp;McCallie&nbsp;Ave</span><span class="mobile-hide">, </span><span class="mobile-block">Chattanooga,&nbsp;TN&nbsp;37403</span><span class="mobile-hide">&nbsp;&nbsp;|&nbsp;&nbsp;</span><span class="mobile-block"><i class="fas fa-phone"></i>&nbsp;&nbsp;<a href="tel:423-425-4111">423-425-4111</a></span>
+          <span class="mobile-block"><a href="https://explore.utc.edu/">615 McCallie Ave<span class="mobile-hide">,</span> Chattanooga<span class="mobile-hide">,</span>&nbsp;TN<span class="mobile-hide">,</span>&nbsp;37403</a> <span class="mobile-hide">&nbsp;&nbsp;|&nbsp;&nbsp;</span><span class="mobile-block"><i class="fas fa-phone"></i>&nbsp;&nbsp;<a href="tel:423-425-4111">423-425-4111</a></span>
           </address>
         </div>
       </div>

diff --git a/README.md b/README.md
@@ -7,4 +7,4 @@ The University of Tennessee at Chattanooga Brand Bars for general use. There are
 
 <hr />
 
-<strong>Brand Bar V2:</strong> This is a stand-alone, brand bar and page, with sample copy and full UTC footer with department info, footer map and menus, and full copyright and documentation links. It contains navigation in the header, using the Library as the example, HOWEVER, IT IS NOT RESPONSIVE, yet. The search button is a link to the main UTC website search page for flexible application. CSS and SVG logo are built-in with social media links to main UTC accounts.
+<strong>Brand Bar V2:</strong> This is a stand-alone, brand bar and page, with sample copy and full UTC footer with department info, footer map and menus, and full copyright and documentation links. It contains navigation in the header, using the main UTC site's menu as the example. This version is fully responsive. The search button is a link to the main UTC website search page for flexible application. CSS and SVG logo are built-in with social media links to main UTC accounts. Social media links specific to departments are available and commented out in this base UTC template for user's use.
